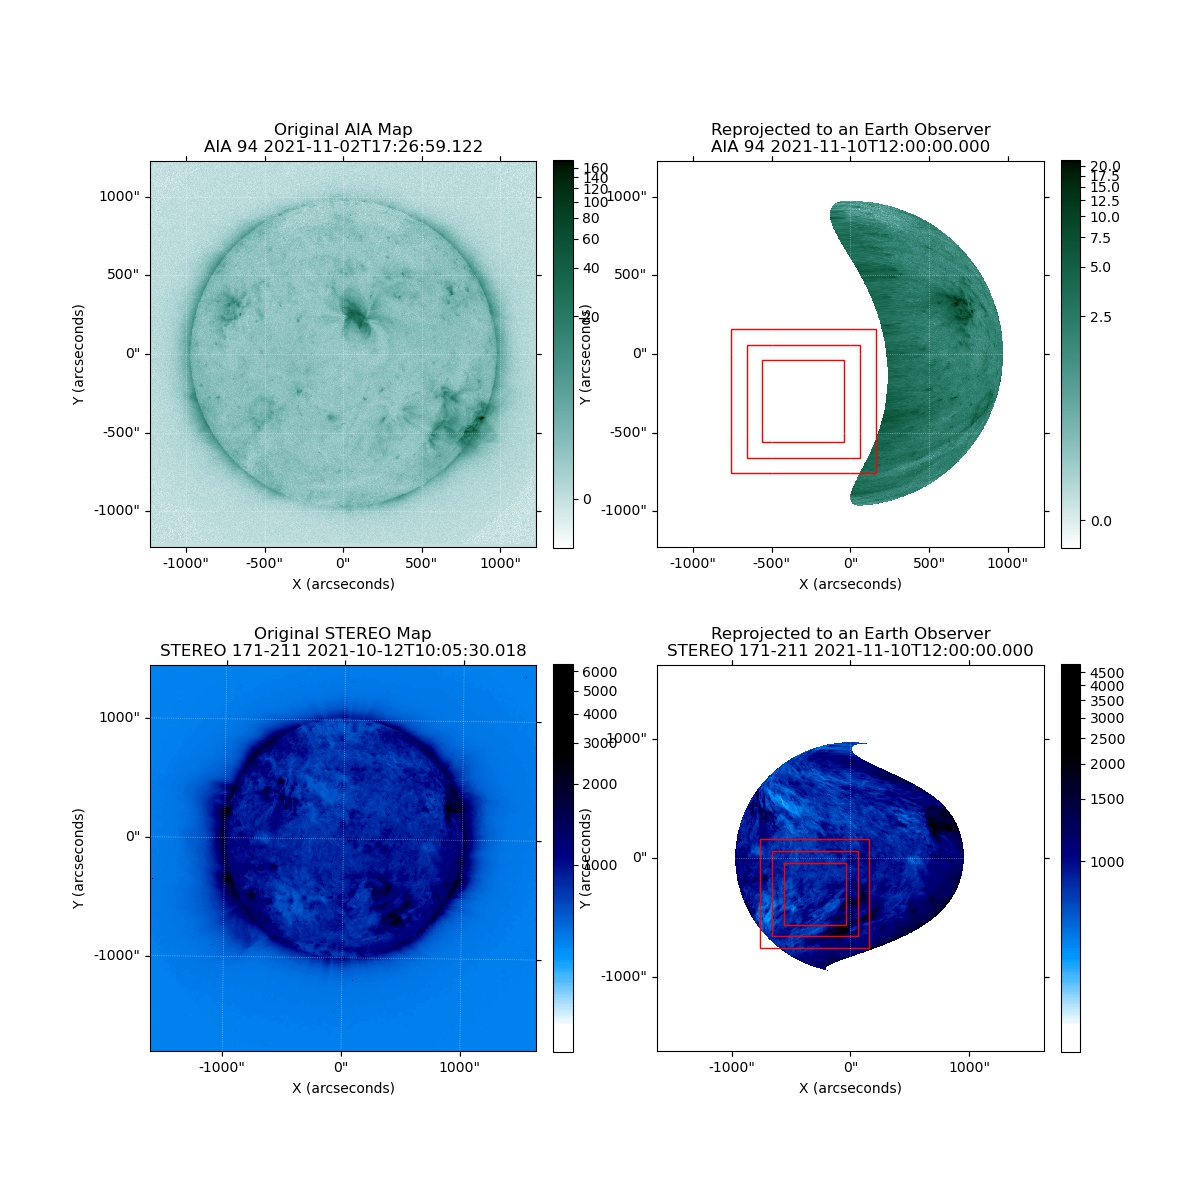
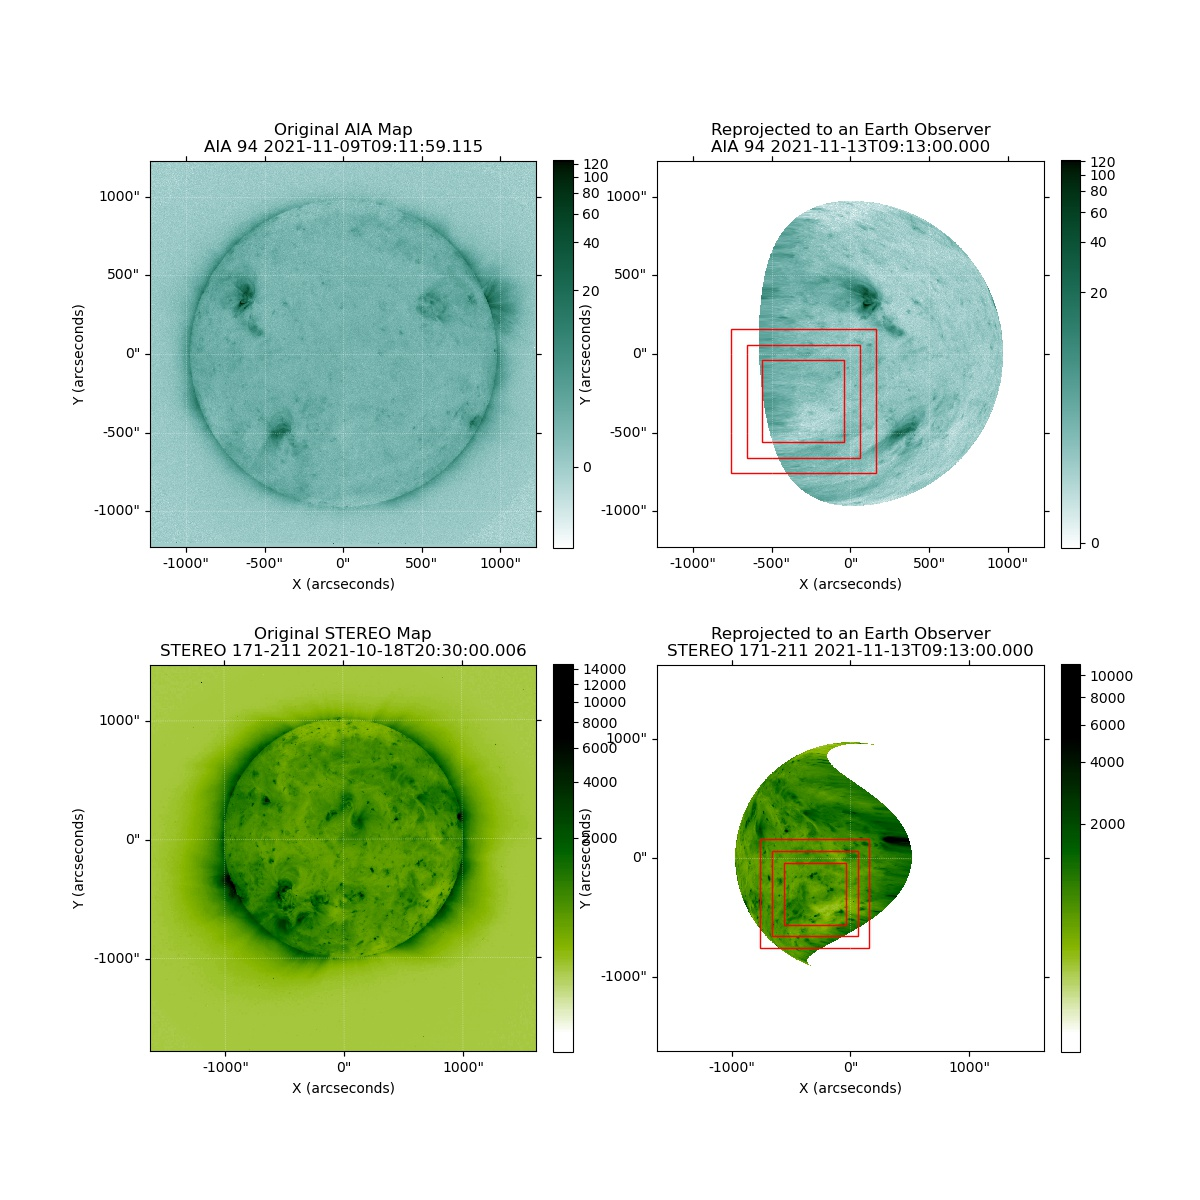
Updated with better image.

diff --git a/map_projection.py b/map_projection.py
@@ -191,4 +191,5 @@ def reprojection(obstime:str, center_x, center_y, layers):
 
 
 if __name__ == '__main__':
-    reprojection( '2021-11-10T12:00:00', -300, -300, [-100, 0, 100])
+    future_time = (datetime.datetime.now()+datetime.timedelta(days=4)).strftime("%Y-%m-%dT%H:%M:%S")
+    reprojection(future_time, -300, -300, [-100, 0, 100])
